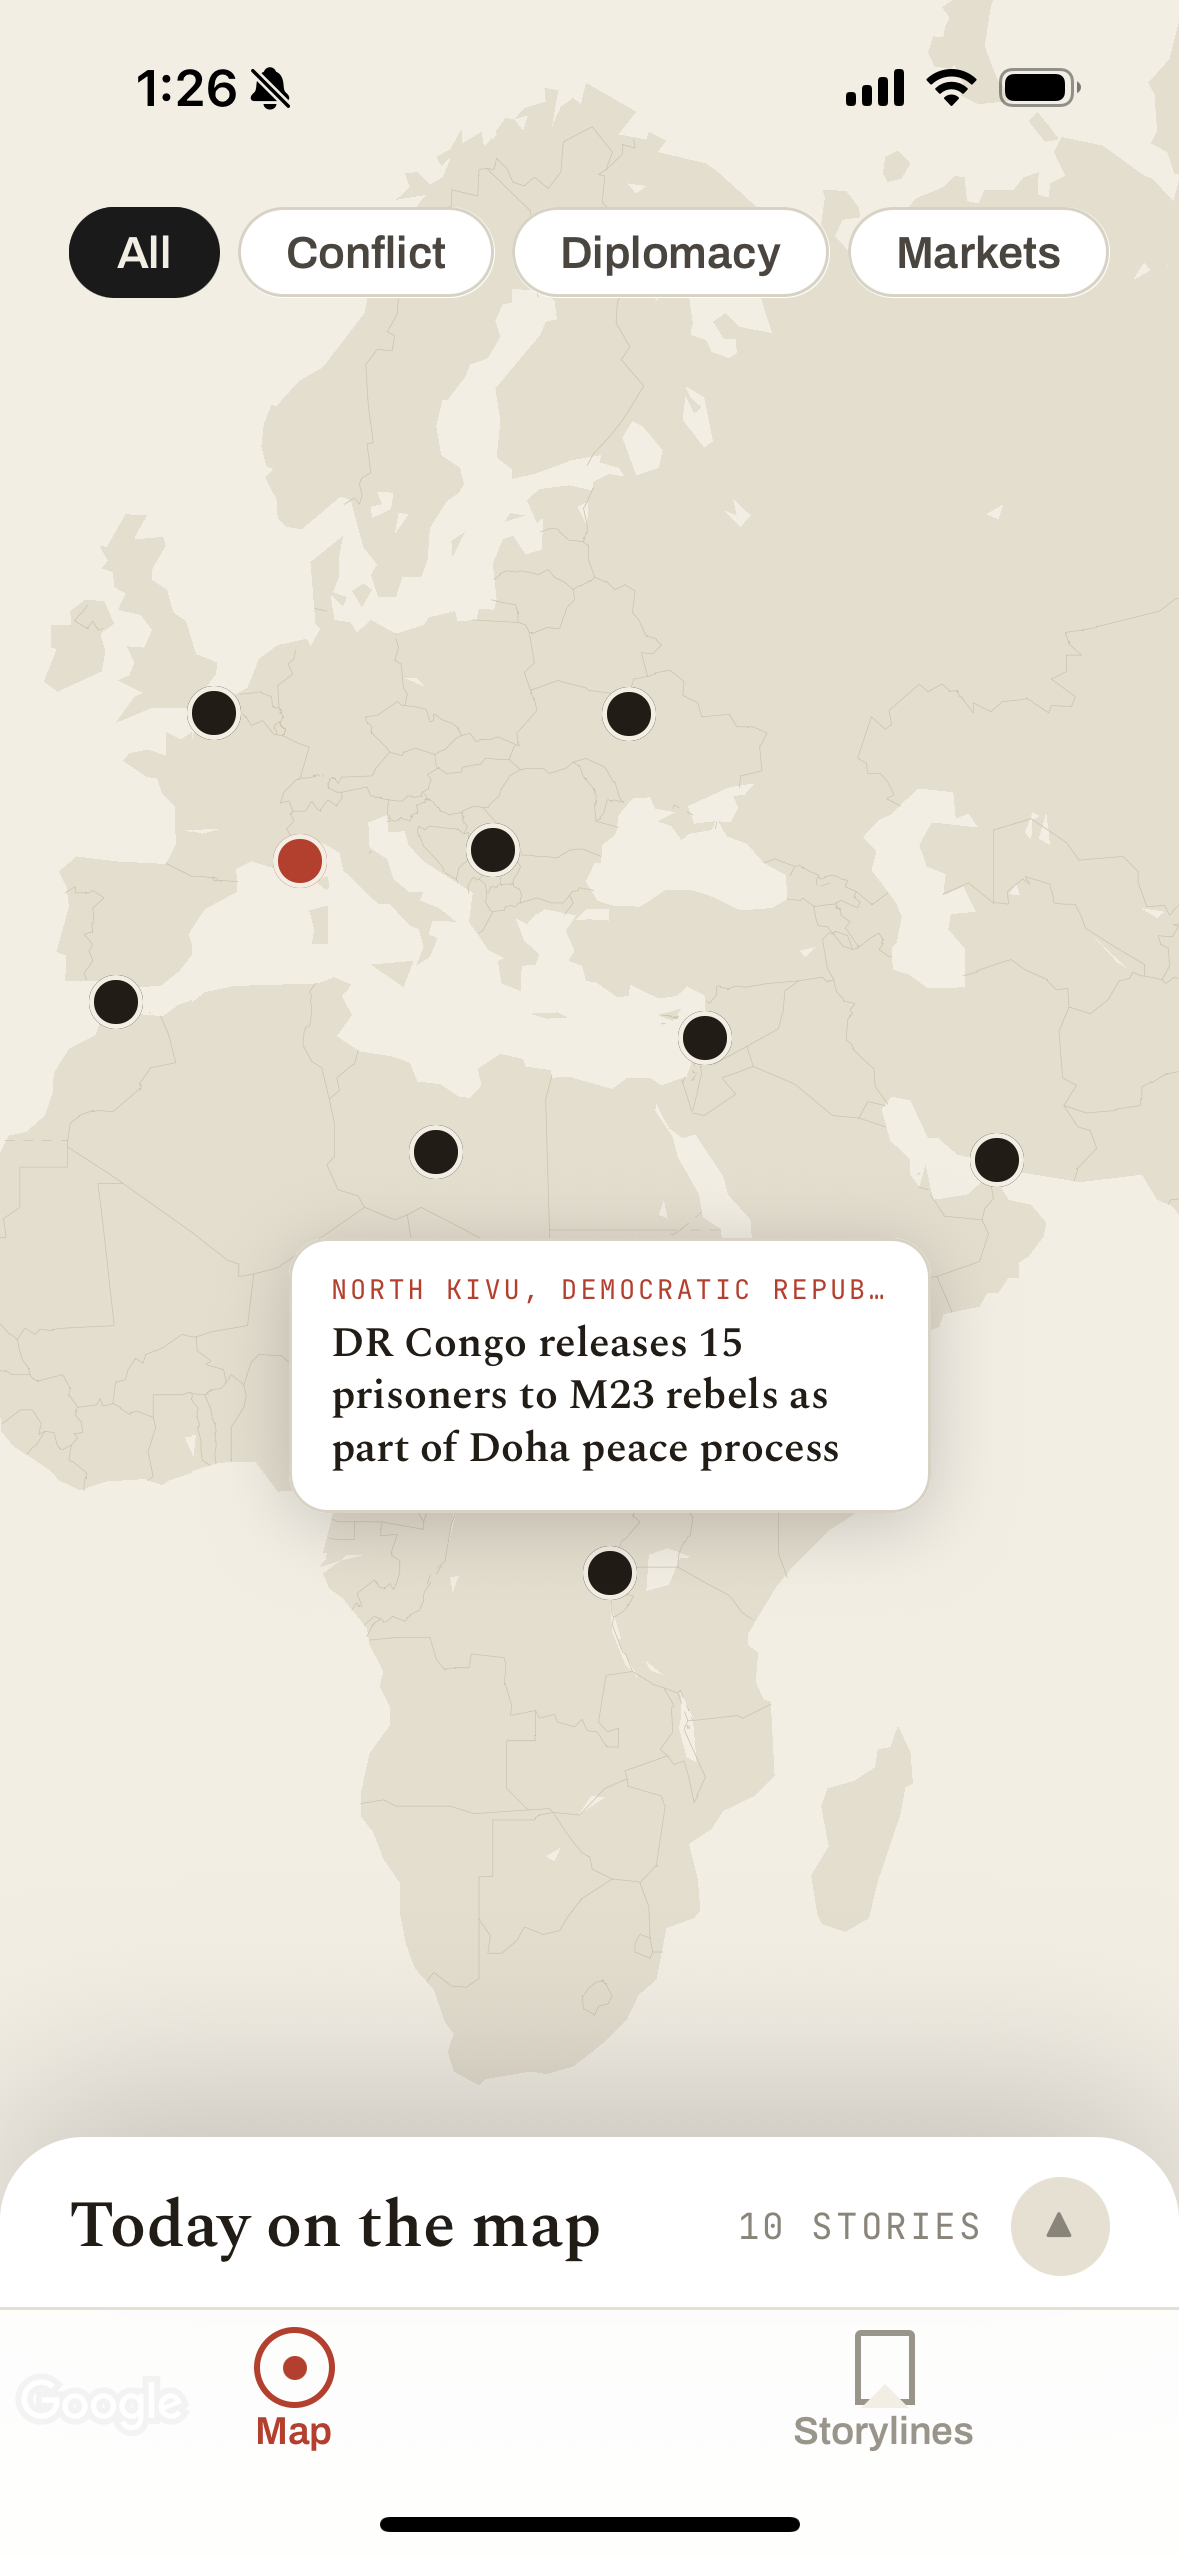
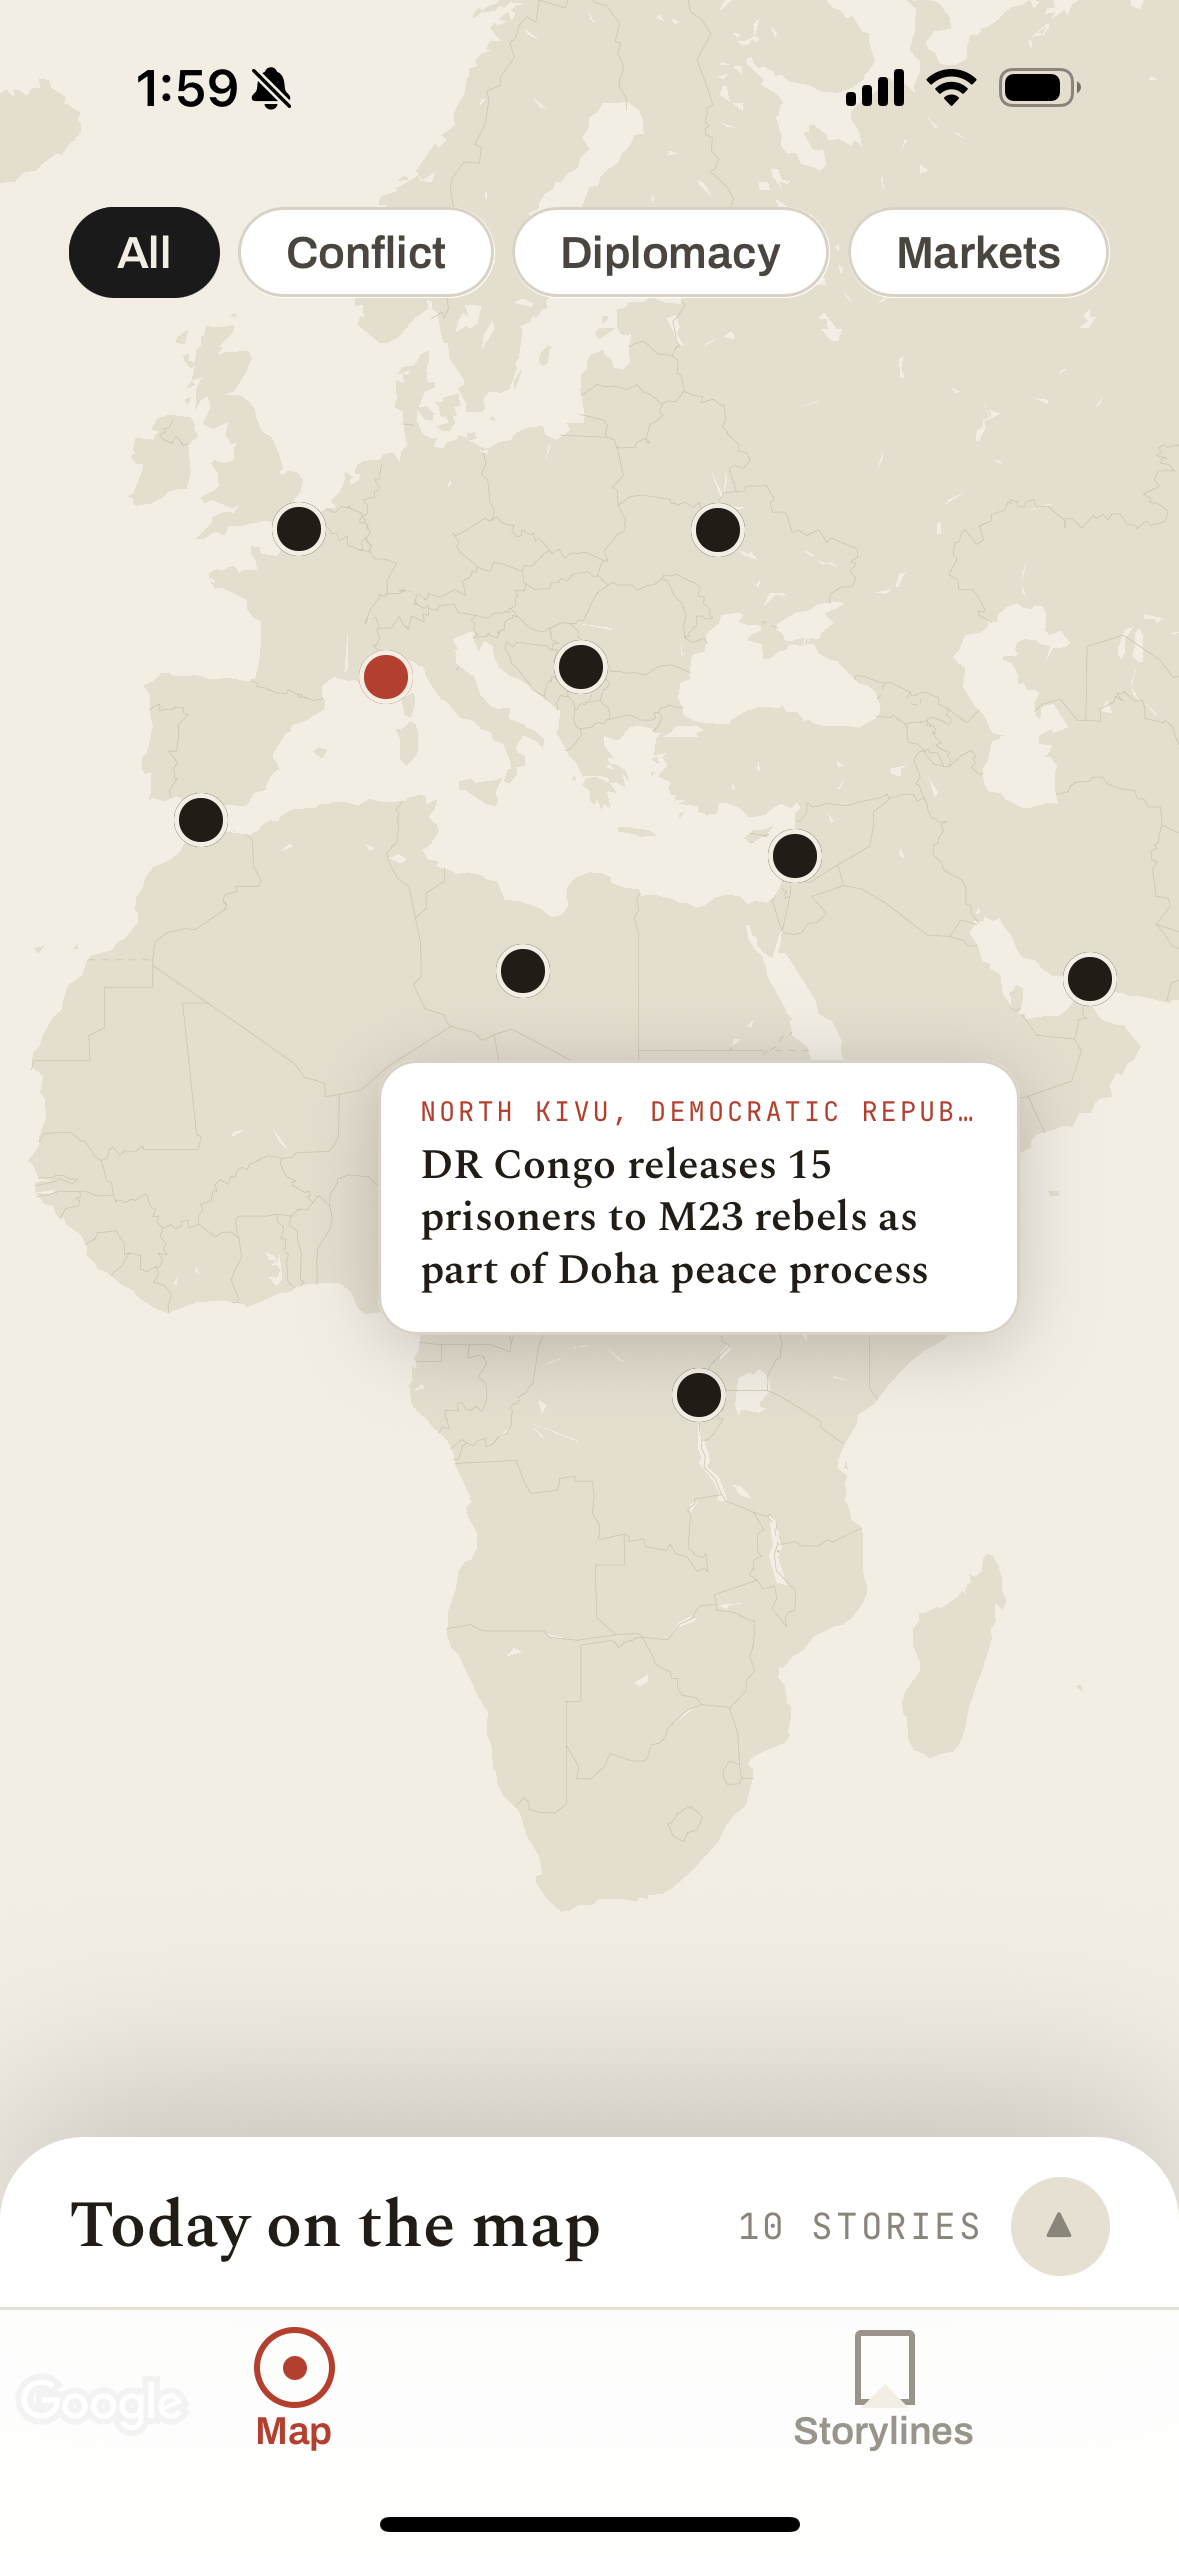
Swap in zoomed-out Vantage screenshot and retune crop

diff --git a/src/content/projects/vantage.md b/src/content/projects/vantage.md
@@ -6,7 +6,7 @@ startDate: 2026-01-04
 tags: [x-tag, y-tag, z-tag]
 repoUrl: https://github.com/rileysmith/halyard
 image: ../../assets/projects/vantage.png
-imagePosition: '50% 39%'
+imagePosition: '50% 28%'
 caption: Halyard — operation-log inspector
 bullets:
   - Deterministic CRDT merge with causal ordering and tombstone GC
